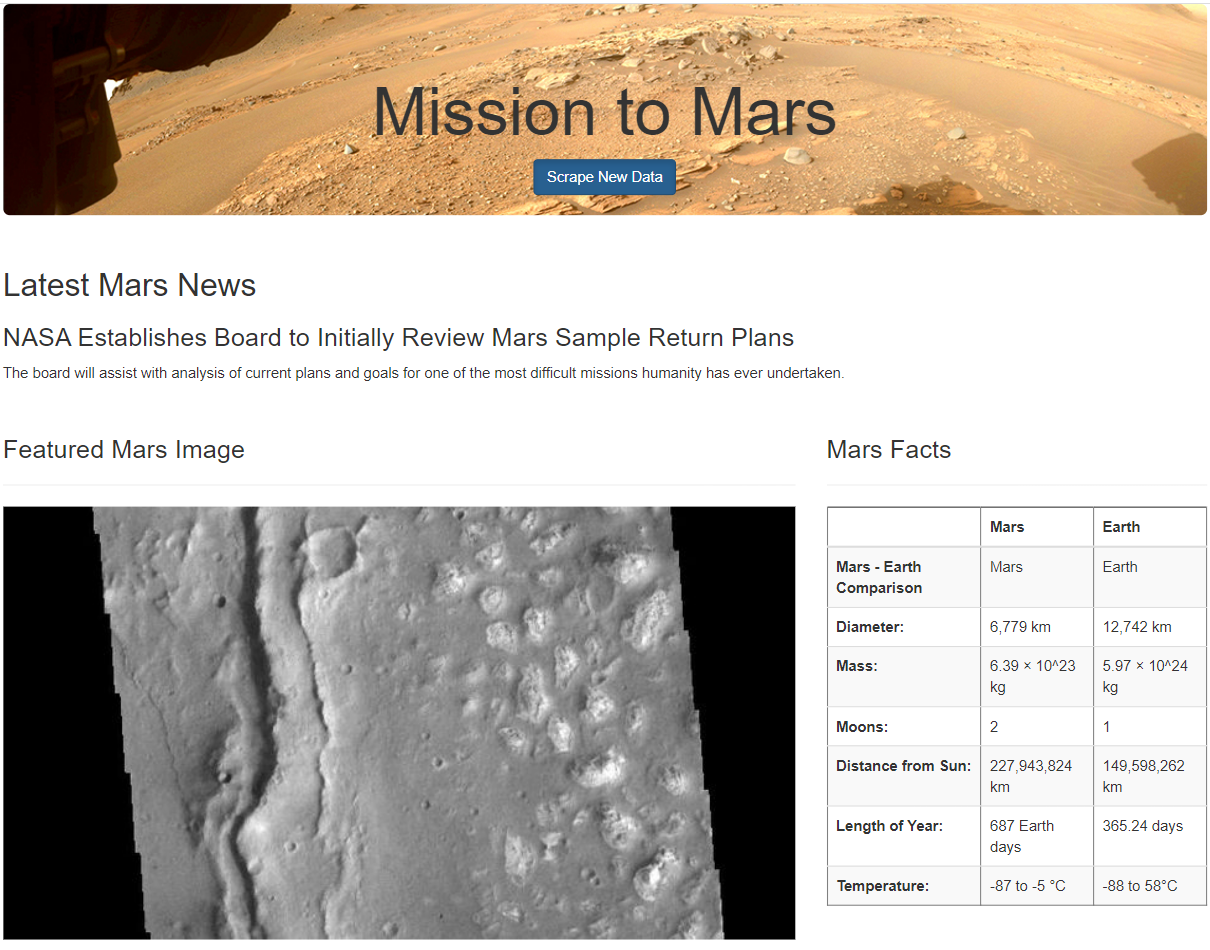
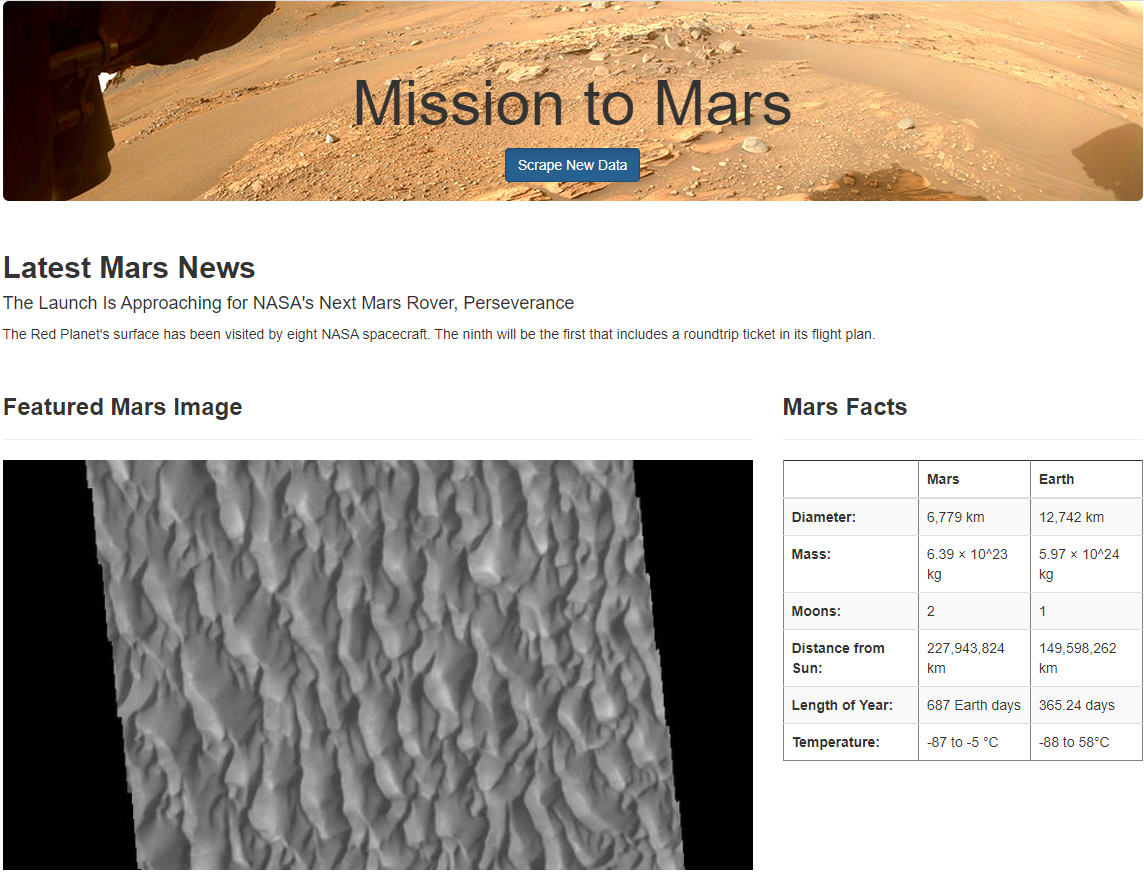
fix table and html code

diff --git a/templates/index.html b/templates/index.html
@@ -5,7 +5,8 @@
     <meta name="viewport" content="width=device-width, initial-scale=1">
   
     <title>Scraping into Mission to Mars</title>
-    <link rel="stylesheet" href="https://maxcdn.bootstrapcdn.com/bootstrap/3.3.7/css/bootstrap.min.css">
+            <link rel="stylesheet" href="https://maxcdn.bootstrapcdn.com/bootstrap/3.3.7/css/bootstrap.min.css">
+                    
   </head>
 <body>
 
@@ -21,8 +22,8 @@
     
         <div class="row">
           <div class="col-md-12">
-              <h2 class="heading">Latest Mars News</h2>
-                <h3 class="heading">{{mars.latest_news_title[0] }}</h3>
+              <h2 class="heading"><b>Latest Mars News</b></h2>
+                <h4 class="heading">{{mars.latest_news_title[0]}}</h4>
                 <p>{{mars.latest_news_paragraph[0]}}</p>
               
           </div>
@@ -34,7 +35,7 @@
       <div class="col-md-8 col-sm-12">
         <div class="box">
           <div class="page-header">
-            <h3 class="title">Featured Mars Image</h3>
+            <h3 class="title"><b>Featured Mars Image</b></h3>
           </div>
           <div class="content">
               <img src={{mars.featured_image_url[0]}} alt="Featured Mars Image" style="width:100%">
@@ -43,11 +44,11 @@
         </div>
       </div>
 
-    <!-- facts table takes up the rest of the columns; relies on pandas css from mars_data_df.to_html() -->
+    <!-- facts table  -->
       <div class="col-md-4 col-sm-12">
         <div class="box">
           <div class="page-header">
-            <h3 class="title">Mars Facts</h3>
+            <h3 class="title"><b>Mars Facts</b></h3>
           </div>
             <div>
             <table>{{mars.html_table[0]|safe }}</table>
@@ -59,10 +60,10 @@
     <!-- new row for the hemisphere images -->
     <div class="row">
       <div class="page-header">
-          <h2 class="text-center"><b>Mars Hemispheres</b></h2>
+          <h3 class="text-center"><b>Mars Hemispheres</b></h3>
       </div>
       <!-- "for" loop to go through the Mongo array -->
-      {% for x in mars.hemisp_image_urls[0] %}
+      {% for x in mars.hemisp_image_urls[0]%}
       <div class="card col-md-6">
           <img class="card-img-top" src= {{x.img_url}}  style="width:100%">
           <div class="card-body">
@@ -82,7 +83,9 @@
      
   <script src="https://code.jquery.com/jquery-3.3.1.slim.min.js" integrity="sha384-q8i/X+965DzO0rT7abK41JStQIAqVgRVzpbzo5smXKp4YfRvH+8abtTE1Pi6jizo" crossorigin="anonymous"></script>
   <script src="https://cdnjs.cloudflare.com/ajax/libs/popper.js/1.14.7/umd/popper.min.js" integrity="sha384-UO2eT0CpHqdSJQ6hJty5KVphtPhzWj9WO1clHTMGa3JDZwrnQq4sF86dIHNDz0W1" crossorigin="anonymous"></script>
-  <script src="https://stackpath.bootstrapcdn.com/bootstrap/4.3.1/js/bootstrap.min.js" integrity="sha384-JjSmVgyd0p3pXB1rRibZUAYoIIy6OrQ6VrjIEaFf/nJGzIxFDsf4x0xIM+B07jRM" crossorigin="anonymous"></script>
+  <script src="https://stackpath.bootstrapcdn.com/bootstrap/4.3.1/js/bootstrap.min.js" integrity="sha384-JjSmVgyd0p3pXB1rRibZUAYoIIy6OrQ6VrjIEaFf/nJGzIxFDsf4x0xIM+B07jRM" crossorigin="anonymous"></script>-->
+  
+
 
        
 </body>

diff --git a/scrape_mars.py b/scrape_mars.py
@@ -50,9 +50,10 @@ def scrape():
     #Create Dataframe to store table data
     df = marsfacts_df[0]
     df.columns = ['Mars-Earth Comparison', 'Mars', 'Earth']
-    df.set_index('Mars-Earth Comparison',inplace=True)
-    df.index.name=None
-    html_table = df.to_html(classes = 'table table-striped table-hover')
+    mars_df=df.drop(labels=0)
+    mars_df.set_index('Mars-Earth Comparison',inplace=True)
+    mars_df.index.name=None
+    html_table = mars_df.to_html(classes = 'table table-striped table-hover')
     nasa_mars_data["html_table"]=html_table
         
     
